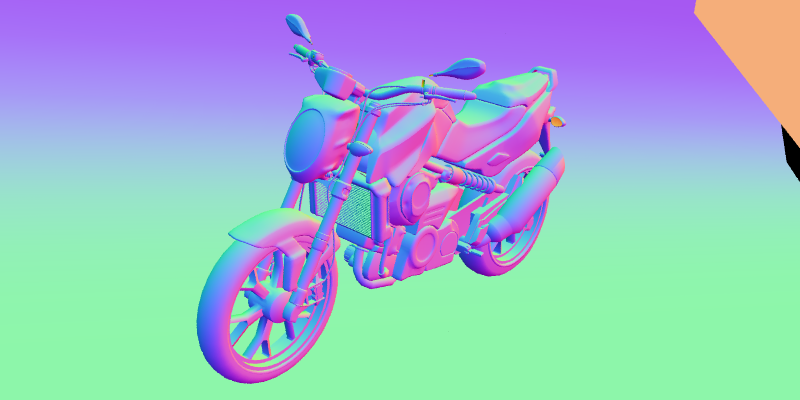
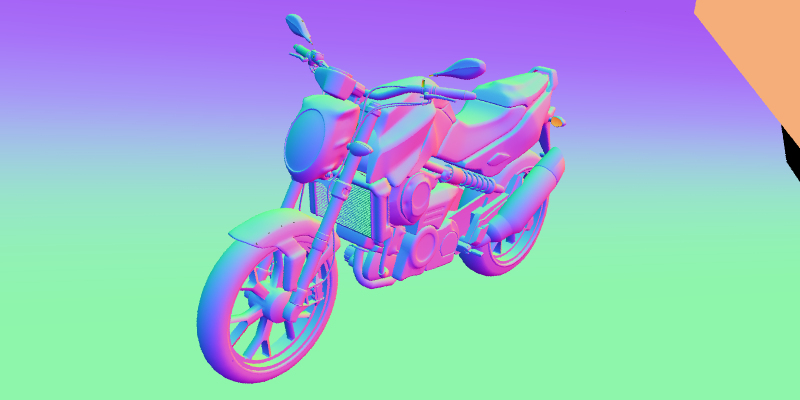
small bugfix and improvement

diff --git a/src/mesh.h b/src/mesh.h
@@ -153,20 +153,6 @@ int ray_intersects_triangle(Ray *ray, Triangle *triangle, Vec3 *out) {
     return 0;
 }
 
-int segment_intersects_triangle(Vec3 *seg_start, Vec3 *seg_end, Triangle *t, Vec3 *out){
-    Vec3 ray_dir; vec3_subtract(seg_end, seg_start, &ray_dir);
-    Ray r;
-    vec3_copy(seg_start, &r.origin);
-    float seg_length = vec3_magnitude(&ray_dir);
-    vec3_copy(&ray_dir, &r.direction);
-    if (ray_intersects_triangle(&r, t, out)){
-        if (out->x <= seg_length){
-            return 1;
-        }
-    }
-    return 0;
-}
-
 /* Can also be used for BVH in the future!!! Thanks to https://tavianator.com/2015/ray_box_nan.html */
 int ray_intersects_box(Ray *ray, Vec3 *box_min, Vec3 *box_max) {
     float tmin = -INFINITY, tmax = INFINITY;
@@ -196,8 +182,9 @@ int point_in_box(Vec3 *p, Vec3 *box_min, Vec3 *box_max){
     return 0;
 }
 
-/* function which checks if a triangle is inside a voxel */
-int triangle_intersects_voxel(Triangle *t, Vec3 *voxel_min, float boxsize) {
+/* function which checks if a triangle is inside a voxel. Does not always give correct result,
+but if it returns zero it is guaranteed to not intersect! */
+int triangle_intersects_voxel_heuristic(Triangle *t, Vec3 *voxel_min, float boxsize) {
     Vec3 voxel_max;
     vec3_add(voxel_min, &(Vec3){boxsize, boxsize, boxsize}, &voxel_max);
 
@@ -222,25 +209,30 @@ int triangle_intersects_voxel(Triangle *t, Vec3 *voxel_min, float boxsize) {
         }
     }
 
-    // Check if the triangle plane intersects the voxel by checking intersections of diagonals
-    Vec3 out;
-    if (segment_intersects_triangle(voxel_min, &voxel_max, t, &out)){
-        return 1;
-    }
-    Vec3 p1 = {voxel_min->x+boxsize, voxel_min->y, voxel_min->z+boxsize};
-    Vec3 p2 = {voxel_max.x-boxsize, voxel_max.y, voxel_max.z-boxsize};
-    if (segment_intersects_triangle(&p1, &p2, t, &out)){
-        return 1;
-    }
-    p1 = (Vec3) {voxel_min->x, voxel_min->y, voxel_min->z+boxsize};
-    p2 = (Vec3) {voxel_max.x, voxel_max.y, voxel_max.z-boxsize};
-    if (segment_intersects_triangle(&p1, &p2, t, &out)){
-        return 1;
-    }
-    p1 = (Vec3) {voxel_min->x+boxsize, voxel_min->y, voxel_min->z};
-    p2 = (Vec3) {voxel_max.x-boxsize, voxel_max.y, voxel_max.z};
-    if (segment_intersects_triangle(&p1, &p2, t, &out)){
-        return 1;
+    // Check if the triangle PLANE intersects the voxel
+    Vec3 e1, e2, normal;
+    vec3_subtract(&t->v2, &t->v1, &e1);
+    vec3_subtract(&t->v3, &t->v1, &e2);
+    vec3_cross(&e1, &e2, &normal); // triangle normal
+    
+    float d = -vec3_dot(&normal, &t->v1);
+    float sign = 0;
+    for (size_t i = 0; i < 8; i++)
+    {
+        Vec3 corner = {
+            (i & 1) ? voxel_max.x : voxel_min->x,
+            (i & 2) ? voxel_max.y : voxel_min->y,
+            (i & 4) ? voxel_max.z : voxel_min->z,
+        };
+        float this_dist = vec3_dot(&normal, &corner) + d;
+        if (i == 0){
+            sign = this_dist <= 0 ? -1 : 1;
+        }
+        else{
+            if ((sign < 0 && this_dist > 0) || (sign > 0 && this_dist <= 0)){
+                return 1;
+            }
+        }
     }
     return 0;
 }

diff --git a/src/spatial.h b/src/spatial.h
@@ -179,9 +179,16 @@ void buildScene(Camera *cam, Triangles *trias, Scene *scene, int desired_boxes){
         for (int x_i = coor_1.x; x_i <= coor_2.x; x_i++){
             for (int y_i = coor_1.y; y_i <= coor_2.y; y_i++){
                 for (int z_i = coor_1.z; z_i <= coor_2.z; z_i++){
-                    int arr_ind = getVoxelIndex(scene, x_i, y_i, z_i);
-                    Voxel *vox = &scene->voxels[arr_ind];
-                    AddTriangle(vox, i);
+                    Vec3 voxel_min = {
+                        scene->bbox.p1.x + x_i * scene->boxsize,
+                        scene->bbox.p1.y + y_i * scene->boxsize,
+                        scene->bbox.p1.z + z_i * scene->boxsize
+                    };
+                    if (triangle_intersects_voxel_heuristic(&t, &voxel_min, scene->boxsize)) {
+                        int arr_ind = getVoxelIndex(scene, x_i, y_i, z_i);
+                        Voxel *vox = &scene->voxels[arr_ind];
+                        AddTriangle(vox, i);
+                    }
                 }
             }
         }
@@ -257,13 +264,24 @@ int castRay(Ray *ray_inpt, Scene *scene, Vec3 *barycentric){
     int res = -1;
     float best_t = 1e10;
     Vec3 curr_barycentric;
-    
-    while (isInGrid(scene, &curr_cell)){
+    int counter = 1;
+    while (isInGrid(scene, &curr_cell) && counter != 0){
+        counter++;
         // handle cell here:
         int vox_ind = getVoxelIndex(scene, curr_cell.x, curr_cell.y, curr_cell.z);
         Voxel *vox = &scene->voxels[vox_ind];
         int this_res = handleVoxel(scene, vox, ray_inpt, &curr_barycentric);
         if (this_res != -1 && curr_barycentric.x < best_t){
+            // small improvement. 
+            float max_v = -INFINITY;
+            Box tria_bbox = get_bbox(&scene->triangles->triangles[this_res]);
+            Vec3 lengths_vec; vec3_subtract(&tria_bbox.p2, &tria_bbox.p1, &lengths_vec);
+            float *lengths = (float *)&lengths_vec;
+            for (size_t i = 0; i < 3; i++)
+            {
+                max_v = lengths[i] > max_v ? lengths[i] : max_v;
+            }
+            counter = -(int)((max_v/scene->boxsize)+0.5);
             res = this_res;
             best_t = curr_barycentric.x;
             vec3_copy(&curr_barycentric, barycentric);

diff --git a/src/fancytracer.c b/src/fancytracer.c
@@ -10,7 +10,7 @@
 const float FOCAL_LENGTH = 2.1f;
 const int WIDTH = 800;
 const int HEIGHT = 400;
-const int SAMPLES = 1000;
+const int SAMPLES = 10;
 const int BOUNCES = 4;
 const int gridcells = 150;
 const char *FILENAME = "output.png";
